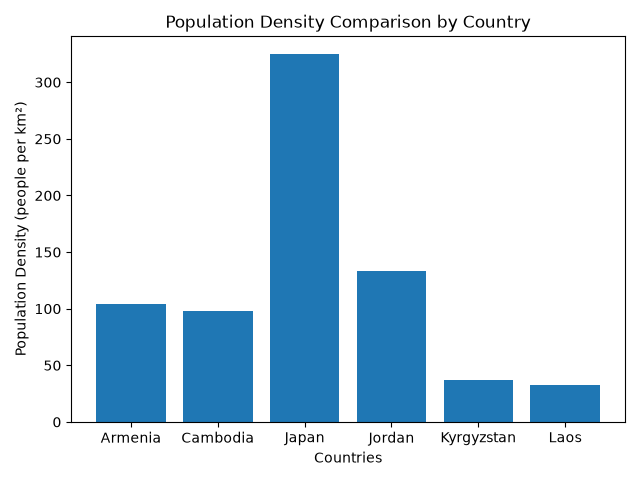
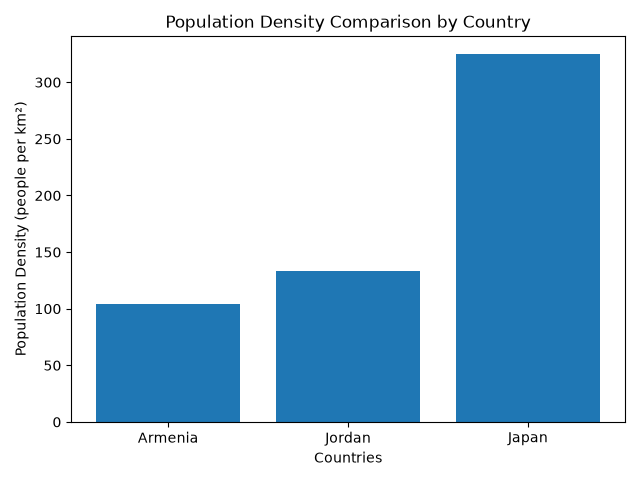
Updated validation of wrong number of countries (checks if user chose 2-6). Restructured pre_visualzation() - added a dictionary to check if the user choice is present in data or if there are any misspellings etc. Updated README file

Changed region(s): [[0.6562, 0.0938, 0.9375, 0.9375], [0.1562, 0.0938, 0.6562, 0.9375]]

diff --git a/main.py b/main.py
@@ -208,24 +208,42 @@ def choose_visualization(list_info):
 def pre_visualization(list_info, metric):
     print ("\nCompare data for chosen countries")
     user_choice_list=[]
-    user_pick=input("Pick 2-6 countries to compare: ").lower()
-    print ("Compiling chart...")
-    user_choice_list=user_pick.split(",")
-    cleaned_choices=[]
-    for country in user_choice_list:
-        cleaned_choices.append(country.strip())
-    selected=[]
+    country_lookup={}
     for el in list_info:
-        selected_country=el.get("name_common", '').lower()
-        if selected_country in cleaned_choices:
-            selected.append(el)
-    flattened_list=[]
-    for el in selected: 
         country_name=el.get("name_common", '')
-        parameter=el.get(metric["key"], '')
+        if country_name:
+            country_lookup[country_name.lower()]=el 
+    while True:
+        user_pick=input("Pick 2-6 countries to compare: ").lower()
+        user_choice_list=user_pick.split(",")
+        cleaned_choices=[]
+        for country in user_choice_list:
+            cleaned_choices.append(country.strip().lower())
+            
+        len_list=len(cleaned_choices)
+        if not 2<=len_list<=6:
+            print(f"Invalid number of countries. {len_list} given. Expected 2-6. Try again.")
+            continue
+
+        invalid=[]
+        for elem in cleaned_choices:
+            if elem not in country_lookup:
+                invalid.append(elem)    
+
+        if invalid:         
+            print (f"Unable to retrieve the following entries: {invalid}.")
+            print ("Please try again.")
+            continue
+        break
+
+    print ("Compiling chart...")
+    flattened_list=[]
+    for country_name in cleaned_choices:
+        country=country_lookup[country_name]
+        param=country.get(metric["key"], 0)
         flattened_list.append({
-            "name_common": country_name, 
-            "value": parameter 
+            "name_common": country["name_common"], 
+            "value": param
         })
     return flattened_list
     
@@ -264,7 +282,7 @@ def main():
 
         data=fetch_data(user_region) 
         new_l=process_data(data)
-
+       
         if user_input==1:
             description_res=search_description(new_l)
         elif user_input==2:

diff --git a/README.md b/README.md
@@ -1,11 +1,11 @@
-Country Explorer (by Region)
+Country Explorer (by Region). Option A
 
 See a video description of the program at:
 https://www.loom.com/share/cb3865ef9de249ddb7bbe76d6f354d59
 
 -------------
 
-A command-line tool for exploring countries by region. Fetch country data from the REST Countries API, view general information (description, population, government structure), and filter countries by international memberships (EU, NATO, etc.). Create a chart comparing properties of 2-6 countries (population, area, population density)
+A command-line tool for exploring countries by region. Fetch country data from the REST Countries API, view general information (description, population, government structure), and filter countries by international memberships (EU, NATO, etc.). Create a chart comparing properties of 2-6 countries (creteria: population, area, population density)
 
 _ _ _ _ _ _ _
 
@@ -15,7 +15,7 @@ API key: required, free to obtain on the website: https://restcountries.com/docs
 
 Key handling: stored in .env file, read via "COUNTRY_API_KEY" environment variable
 
-The project requires installation of your own .env file
+The program requires installation of your own .env file
 _ _ _ _ _ _ _
 
 Requirements
@@ -56,25 +56,13 @@ The program presents a looping menu:
         Choose an option (1-4):
 
 
-Option 1: Input a region (Europe, Asia, etc.). The program fetches all countries and prints: country name, short description, population, government type
+Option 1: Input a region (Europe, Asia, etc.). The program fetches all countries and prints: country name, short description, population, government type.
 
-Option 2: Prompts for a region and then shows a menu of international organizations. Input numbers separated by spaces. THe program matches the countries that are members and prints their names.
+Option 2: Prompts for a region and then shows a menu of international organizations. Input numbers separated by spaces. The program matches the countries that are members and prints their names.
 
-Option 3: Compare Countries (Chart)
 ## Visualization (Option A)
-   After picking a region, the user sees output of countries they can compare and the following menu with 4 available choices.
+Option 3: Compare Countries (Chart): After picking a region, the user sees output of countries that are available for comparison and a menu with 4 available choices (population, area, population density and return to the main menu). The program handles invalid feedback like wrong number of countries (less than 2 and more than 6) and countries that are not a part of the available countries as well as wrong spelling, etc. The bar chart shows the chosen countries on the horizontal plane, and one of the chozen criteria on the vertical plane. Visual representation allows a user to compare the data easily. 
    
-        What would you like to compare?
-        1. Population
-        2. Area
-        3. Population density
-        4. Go back
-        Choose an option (1-4):
-
-After the user chooses, next menu allows user to pick what countries they want to compare.
-
-        Compare data for chosen countries
-        Pick 2-6 countries to compare:
 
 Option 4: Quit
 
